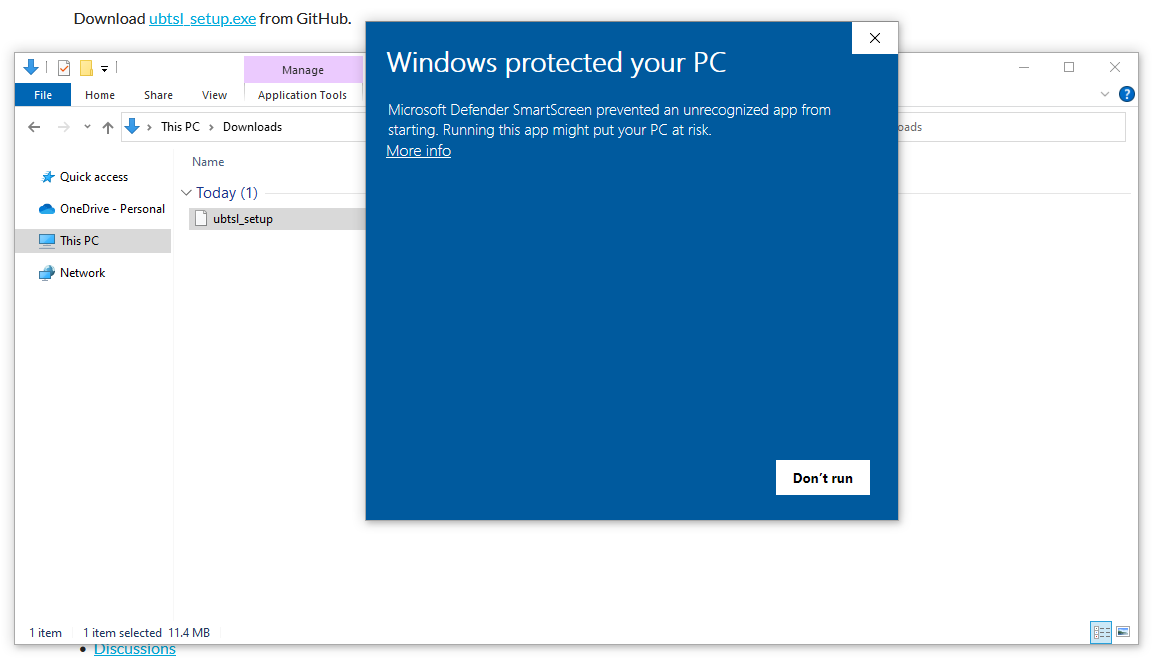
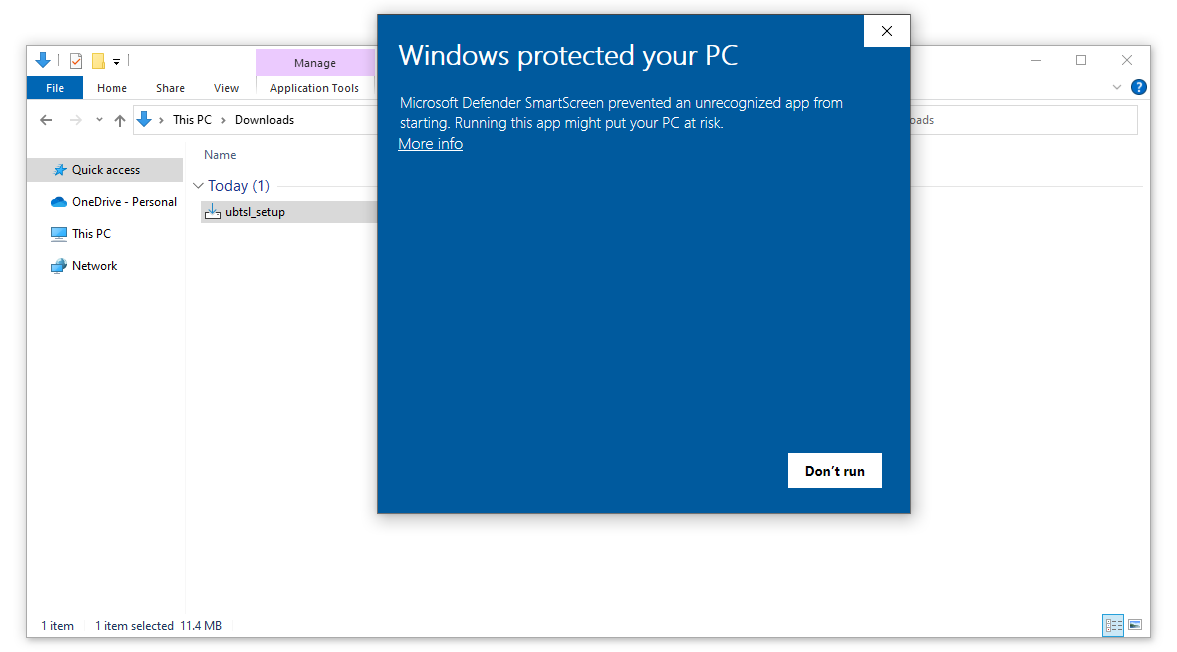
install win

diff --git a/bot/README.md b/bot/README.md
@@ -65,10 +65,9 @@ from GitHub.
 3. Click on `More info`: ![Screenshot_0](https://www.lucit.tech/files/images/dev/ubtsl/bot/windows/0.png)
 4. Click on `Run anyway`: ![Screenshot_1](https://www.lucit.tech/files/images/dev/ubtsl/bot/windows/1.png)
 5. Click on `Yes`: ![Screenshot_2](https://www.lucit.tech/files/images/dev/ubtsl/bot/windows/2.png)
-6. Accept the license: ![Screenshot_2](https://www.lucit.tech/files/images/dev/ubtsl/bot/windows/2.png)
+6. Accept the license: ![Screenshot_3](https://www.lucit.tech/files/images/dev/ubtsl/bot/windows/3.png)
 7. Click "Next" 3 times, then click "Install". 
-
-Read the following post [installation instructions](https://www.lucit.tech/ubtsl-cli.html#installation).
+8. Read the following post [installation instructions](https://www.lucit.tech/ubtsl-cli.html#installation).
 
 ### Mac
 Comming soon!
